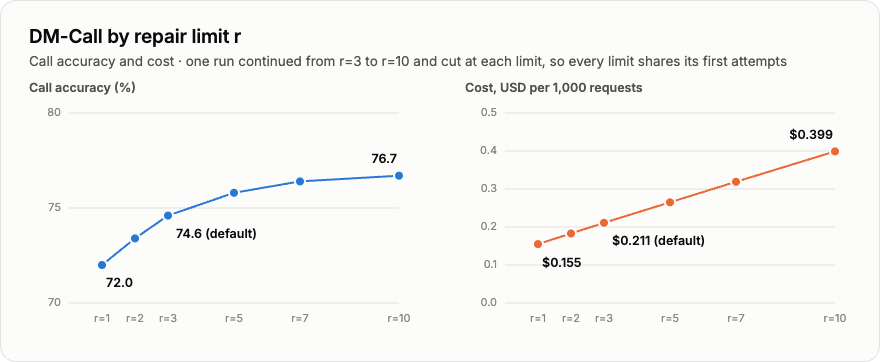
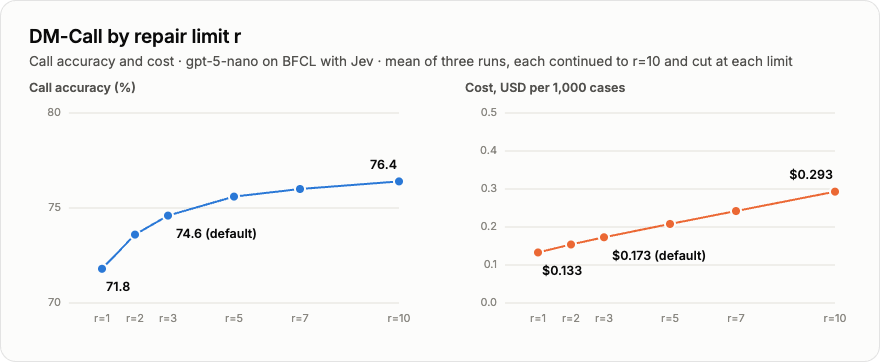
Update README results to the current paper and re-render the charts
- Results now show the paper's current Table 1 (four generators, Jev and PPLX, MAD-FC and
  PF-FC, BFCL and API-Bank, BFCL cost) with paired bootstrap intervals, fix and break counts,
  accepted-call correctness and timing recomputed from the same runs.
- The three charts and docs/assets/src/data.json use the current runs: BFCL categories of the
  Table 1 GPT runs, Table 3 (archived replay) and Figure 2. Self-refine's unknown retained
  cost shows as a dash. The tables under Results add Table 2, all four generators'
  categories and the repair-limit details.
- Statements the current results contradict are rewritten (Claude losing 1.3 points on
  BFCL, one verifier, first-run numbers). How it works, the options, the result fields,
  FAQ, Limits, the DGX section and the test badge describe the library's new defaults.

diff --git a/docs/assets/src/charts.py b/docs/assets/src/charts.py
@@ -3,7 +3,8 @@
 Usage: python docs/assets/src/charts.py docs/assets/src/data.json docs/assets
 Use --html-only to export browser previews without launching Chromium.
 The PNG renderer needs Playwright with Chromium and the Inter font. The numbers in data.json must equal
-the filled paper results (Tables 1-2 and Figure 2); colors are a validated categorical palette.
+the current paper's runs: BFCL categories of the Table 1 GPT runs, Table 3 (archived replay) and
+Figure 2; colors are a validated categorical palette.
 """
 import json
 import sys
@@ -116,7 +117,7 @@ def methods(t, rows):
                    f'V{y + bar / 2 - r} Q{end},{y + bar / 2} {end - r},{y + bar / 2} H{x0} Z" fill="{color}"/>')
         out.append(text(end + 8, y, f"{accuracy:.1f}%", t["ink"] if star else t["ink2"], 13, 650 if star else 450))
         out.append(text(cols["API s"], y, f"{seconds:.2f}", t["ink2"], 12.5, 450, "end"))
-        out.append(text(cols["USD / 1k"], y, f"${usd:.3f}", t["ink2"], 12.5, 450, "end"))
+        out.append(text(cols["USD / 1k"], y, "–" if usd is None else f"${usd:.3f}", t["ink2"], 12.5, 450, "end"))  # no retained cost
     out.append("</svg>")
     return "".join(out)
 
@@ -128,7 +129,7 @@ def limits(t, rows):
     height = top + plot_h + 40
     out = [f'<svg width="{width}" height="{height}" viewBox="0 0 {width} {height}">']
     specs = [("Call accuracy (%)", 1, (70, 80, (70, 75, 80)), t["blue"], lambda v: f"{v:.1f}"),
-             ("Cost, USD per 1,000 requests", 2, (0, 0.5, (0, 0.1, 0.2, 0.3, 0.4, 0.5)), t["orange"], lambda v: f"${v:.3f}")]
+             ("Cost, USD per 1,000 cases", 2, (0, 0.5, (0, 0.1, 0.2, 0.3, 0.4, 0.5)), t["orange"], lambda v: f"${v:.3f}")]
     for k, (label, index, (lo, hi, ticks), color, fmt) in enumerate(specs):
         ox = k * (panel + gap)
         px0, px1 = ox + 40, ox + panel - 18
@@ -168,13 +169,13 @@ def main(data_path, out_dir, html_only=False):
     jobs = []
     for mode, t in THEMES.items():
         jobs.append((f"chart-categories-{mode}.png", page(t, "Accuracy by BFCL category",
-                     "BFCL GPT runs · 3,035 scored / 3,051 prepared · mean of three runs · arrow: Direct (ring) to DM-Call with at most 3 repairs (dot) · bold: highest in the row",
+                     "BFCL · 3,035 cases · mean of three runs · arrow: Direct (ring) to DM-Call with Jev and at most 3 repairs (dot) · bold: highest in the row",
                      [("gpt-5-nano", t["blue"]), ("gpt-5.4-mini", t["orange"])], categories(t, data["categories"]))))
         jobs.append((f"chart-methods-{mode}.png", page(t, "Call accuracy by method",
-                     "gpt-5-nano · first run · same first proposal for every method · at most 3 repairs · time and cost per request at right",
+                     "gpt-5-nano on BFCL · archived runs replayed, mean of three · same first proposal for every method · at most 3 repairs · retained time and cost per case at right",
                      [], methods(t, data["methods"]))))
         jobs.append((f"chart-limits-{mode}.png", page(t, "DM-Call by repair limit r",
-                     "Call accuracy and cost · one run continued from r=3 to r=10 and cut at each limit, so every limit shares its first attempts",
+                     "Call accuracy and cost · gpt-5-nano on BFCL with Jev · mean of three runs, each continued to r=10 and cut at each limit",
                      [], limits(t, data["limits"]))))
     out_dir.mkdir(parents=True, exist_ok=True)
     if html_only:

diff --git a/README.md b/README.md
@@ -15,7 +15,7 @@
 <p align="center">
   <img alt="Python 3.11+" src="https://img.shields.io/badge/python-3.11%2B-3776AB?style=flat-square&logo=python&logoColor=white">
   <a href="LICENSE"><img alt="MIT license" src="https://img.shields.io/badge/license-MIT-eab308?style=flat-square"></a>
-  <img alt="768 offline tests" src="https://img.shields.io/badge/tests-768%20passing-16a34a?style=flat-square">
+  <img alt="1,082 offline tests" src="https://img.shields.io/badge/tests-1082%20passing-16a34a?style=flat-square">
   <img alt="Dependencies: httpx and jsonschema" src="https://img.shields.io/badge/deps-httpx%20%2B%20jsonschema-6b7280?style=flat-square">
   <a href="paper/main.pdf"><img alt="Paper (PDF)" src="https://img.shields.io/badge/paper-PDF-b31b1b?style=flat-square&logo=latex&logoColor=white"></a>
 </p>
@@ -50,7 +50,7 @@ agent.run("Is it jacket weather in Seoul tonight?")  # runs the call only if Jev
 
 ![Figure 1 of the paper. Direct / Schema Repair returns the candidate or fixes local schema errors. Generic Self-Review revises with the generator's own critique. DM-Call (Ours) has a decision model judge function selection and arguments, accepts a passing candidate, and sends rejected candidates back to the generator as cumulative feedback.](docs/assets/dm-call-figure1.png)
 
-The figure is Figure 1 of the paper. Direct generation returns the model's first call, schema repair fixes only what a local schema check reports, and generic self-review asks the model to critique itself. In DM-Call the LLM proposes a call $c_t$, one function with its arguments, or no call. A local schema check and Jev judge it: Jev sees the request, the available functions and the call, and answers *right function?* and, when there is a call, *right arguments?* as probabilities of yes. A check passes at 0.5 or more. A rejected call and its verdicts $d_t$ are appended to the feedback history $H_t$, and the model tries again. The history goes *before* the original request, oldest first, and is marked as not executed, so the model sees every earlier attempt and can change the function, the arguments, or decide not to call.
+The figure is Figure 1 of the paper. Direct generation returns the model's first call, schema repair fixes only what a local schema check reports, and generic self-review asks the model to critique itself. In DM-Call the LLM proposes a call $c_t$, one function with its arguments, or no call. A local schema check and Jev judge it: Jev sees the request, the available functions and the call, and answers *right function?* and, when there is a call, *right arguments?* as probabilities of yes. A check passes at 0.5 or more. A rejected call and its verdicts $d_t$ are appended to the feedback history $H_t$, and the model tries again. The history goes *before* the original request, oldest first, and is marked as not executed, so the model sees every earlier attempt and can change the function, the arguments, or decide not to call. Each probability in the history also carries a label from five equal bands, from *very likely incorrect* to *very likely correct* (Hybrid feedback, as in the paper; `feedback="numeric"` sends the probabilities alone). A readable first answer of no call is returned as is, without a check (`preserve_initial_no_call=False` checks it too); a no call proposed during a repair is still checked.
 
 Each history record contains a candidate and the verifier's actual judgments, without reference answers. The [many-shot in-context learning](https://arxiv.org/abs/2404.11018) literature motivates studying how prior examples affect later proposals. DM-Call uses rejected candidates as feedback; its cumulative-history ablation and repair-limit analysis appear in [Results](#results).
 
@@ -58,7 +58,7 @@ The loop stops at the first proposal that passes every check, or after `max_repa
 
 ## See it
 
-Two real traces from the paper's first run (`gpt-5-nano` on BFCL, `jev-1.13.0`, threshold 0.5). Red lines were rejected; green lines passed.
+Two real traces from an earlier `gpt-5-nano` BFCL run (`jev-1.13.0`, threshold 0.5). Red lines were rejected; green lines passed.
 
 **An unnecessary call, withdrawn.** The only tool is unrelated, and the model calls it anyway:
 
@@ -90,12 +90,12 @@ Two real traces from the paper's first run (`gpt-5-nano` on BFCL, `jev-1.13.0`, 
   <tr>
     <td width="33%" valign="top"><b>🎯 Checks what schemas cannot</b><br>Wrong function, invented values, a call that should not happen at all. Jev judges meaning; a local schema check covers format.</td>
     <td width="33%" valign="top"><b>🔁 Repairs instead of failing</b><br>Rejected calls go back to the model with every earlier attempt and verdict. Nothing runs until a call passes.</td>
-    <td width="33%" valign="top"><b>🔍 Decision-model feedback</b><br>The current verifier is Jev. It returns binary judgment probabilities without generating explanations or requiring reference answers.</td>
+    <td width="33%" valign="top"><b>🔍 Decision-model feedback</b><br>The default verifier is Jev; the open-weight PPLX Decider also works. Both return binary judgment probabilities without generating explanations or requiring reference answers.</td>
   </tr>
   <tr>
     <td valign="top"><b>🔌 Any model</b><br>OpenAI, Anthropic, Gemini, xAI Grok, Azure OpenAI, OpenRouter, or any OpenAI-compatible server. Plain HTTP, no vendor SDKs.</td>
     <td valign="top"><b>🧰 Plain Python tools</b><br>Pass functions. Schemas come from type hints and docstrings; JSON Schema works too.</td>
-    <td valign="top"><b>📄 Open study</b><br>The library runs the same loop as the paper. Code, the pinned BFCL revision and the checks behind every table are in this repo.</td>
+    <td valign="top"><b>📄 Open study</b><br><code>dmcall.DMCall</code> runs the paper's loop with its settings: Hybrid feedback and the first no-call kept. The library, the pinned BFCL revision and the scoring checks are in this repo.</td>
   </tr>
 </table>
 
@@ -233,6 +233,8 @@ dmcall.DMCall(
     method="dmcall",            # or a baseline: "direct", "schema", "self-refine",
                                # "dmcall-f", "dmcall-a", "dmcall-latest"
     execute_unverified=False,  # True also permits the final unverified proposal to run
+    feedback="hybrid",         # probabilities with labels in repair feedback ("numeric": probabilities only)
+    preserve_initial_no_call=True,  # return a readable first no-call without a check
 )
 ```
 
@@ -246,7 +248,8 @@ dmcall.DMCall(
 | DM-Call-L: latest rejected candidate only | `dmcall-latest` | `jev_joint_latest` |
 | DM-Call: both judgments, cumulative history | `dmcall` | `jev_joint` |
 
-- The defaults are the paper's final settings: at most three repairs, threshold 0.5, and the first proposal when nothing passes. `call()` and `run()` also take `max_repairs=` and `on_exhaustion=` per request.
+- The defaults are the paper's settings: at most three repairs, threshold 0.5, the first proposal when nothing passes, Hybrid feedback, and a readable first no-call returned without a check. `call()` and `run()` also take `max_repairs=` and `on_exhaustion=` per request.
+- The paper's other baselines, MAD-FC and PF-FC, run in its experiment runner and are not methods of this library.
 - `dmcall.Jev(api_key, threshold=0.5, function_threshold=None, arguments_threshold=None, model="jev-1.13.0")` configures the verifier; pass it as `jev=`.
 - `acall`, `arun` and `averify` run the same steps in a worker thread for async code.
 - `dmcall.SYSTEM_PROMPT` is the generator prompt used in the paper; replace it with `system_prompt=` on a provider.
@@ -258,7 +261,8 @@ dmcall.DMCall(
 |---|---|
 | `calls` | final proposal: `[{"name", "arguments"}]`, `[]` for no call, `None` if unreadable; the first proposal when nothing passed (`on_exhaustion="first"`) |
 | `call` | the first call, or `None` |
-| `accepted` | passed every check (`None` for methods without a verifier) |
+| `accepted` | passed every check (`None` for methods without a verifier, and for a first no-call returned without a check) |
+| `initial_no_call_preserved` | the first proposal was a readable no-call, returned without a check |
 | `exhausted` | hit the repair limit without passing |
 | `repairs` | repairs used |
 | `final_attempt` | which proposal in `trace` is final (0: the first) |
@@ -274,115 +278,150 @@ dmcall.DMCall(
 
 For new experiments, `dmcall.PerplexityDecider` connects to the native
 [Perplexity Decider v1.1 27B](https://huggingface.co/perplexity-ai/pplx-decider-v1.1-27b)
-checkpoint at an immutable revision. Pass it explicitly as `jev=` to the existing
-`dmcall.DM-Call` API. Jev remains the default verifier for the historical experiments.
+checkpoint at an immutable revision. Pass it explicitly as `jev=` to
+`dmcall.DMCall`. Jev remains the default verifier.
 The [DGX experiment guide](docs/dgx-decider-experiments.md) covers the isolated
 runtime, input and model fingerprints, bounded smoke tests, and the separate
-experiment runner. The following paper results do not include this new model.
+experiment runner. The paper's DM-Call (PPLX) results use this checkpoint, run
+locally in BF16 with its calibration temperature (1.009).
 
 ## Results
 
 > [!NOTE]
-> Three generators from two providers (`gpt-5-nano`, `gpt-5.4-mini`, and `claude-sonnet-5-5`) and one verifier (`jev-1.13.0`) were evaluated on BFCL and an exploratory API-Bank first-call adaptation. Each generator has three paired Direct/DM-Call runs with shared initial candidates, at most three repairs, threshold 0.5, and the first proposal kept if none passes. BFCL accuracy uses 3,035 cases from the 3,051-case subset; API-Bank uses 156 cases with a fixed 53-tool catalog and adapted exact match, without executing functions. BFCL settings were selected after inspecting these examples, and API-Bank's input instruction was refined after exploratory outcomes. These results do not establish a uniform gain or execution success. Intervals, timing, cost, and limitations are in the [current paper](paper/main.pdf).
+> These are the paper's current results. Four generators (`gpt-5-nano`, `gpt-5.4-mini` and `claude-sonnet-5-5` through their APIs, and the open-weight `gemma-4-31b-it` served locally with vLLM) and two decision models (the hosted `jev-1.13.0` and the open-weight PPLX Decider v1.1, run locally) were evaluated on 3,035 BFCL single-turn cases and on an exploratory 156-case API-Bank first-call adaptation. Every method has three runs. DM-Call uses at most three repairs, threshold 0.5, Hybrid feedback and the first proposal when none passes, and it returns a readable first no-call unchanged. These settings were chosen on the same benchmarks without a held-out split, and no function is executed. MAD-FC (three agents debate one round and take a majority vote) and PF-FC (`gpt-5.4-mini` reviews each Direct call and refines it up to three times) are the paper's external baselines; they run in its experiment runner, not in this library.
 
-Current Table 1, mean accuracy (%) over three runs:
+BFCL accuracy (%), mean of three runs:
 
-| Benchmark | Generator | Direct | DM-Call |
-|---|---|---:|---:|
-| BFCL | GPT-5-nano | 64.1 | 74.8 |
-| BFCL | GPT-5.4-mini | 81.1 | 82.1 |
-| BFCL | Claude Sonnet 5.5 | 88.3 | 87.0 |
-| API-Bank (adapted, exploratory) | GPT-5-nano | 60.0 | 66.5 |
-| API-Bank (adapted, exploratory) | GPT-5.4-mini | 78.2 | 79.5 |
-| API-Bank (adapted, exploratory) | Claude Sonnet 5.5 | 86.3 | 87.2 |
+| Generator | Direct | MAD-FC | PF-FC | DM-Call (Jev) | DM-Call (PPLX) |
+|---|---:|---:|---:|---:|---:|
+| `gpt-5-nano` | 64.12 | 60.20 | 74.54 | 74.63 | 74.24 |
+| `gpt-5.4-mini` | 81.59 | 79.09 | 81.79 | 82.54 | 82.20 |
+| `claude-sonnet-5-5` | 88.25 | 82.38 | 86.45 | 88.56 | 88.46 |
+| `gemma-4-31b-it` | 86.67 | 39.29 | 84.85 | 86.91 | 86.88 |
 
-Claude loses 1.3 points on BFCL; its 0.9-point API-Bank gain has a paired interval that includes zero. Other verifier families and independent confirmation of API-Bank remain future work.
+API-Bank (adapted, exploratory) accuracy (%), mean of three runs:
 
-### Original BFCL GPT breakdown and ablations
+| Generator | Direct | MAD-FC | PF-FC | DM-Call (Jev) | DM-Call (PPLX) |
+|---|---:|---:|---:|---:|---:|
+| `gpt-5-nano` | 61.32 | 29.27 | 70.09 | 64.32 | 64.53 |
+| `gpt-5.4-mini` | 80.13 | 80.98 | 76.71 | 80.13 | 80.13 |
+| `claude-sonnet-5-5` | 86.97 | 73.93 | 83.12 | 87.39 | 87.39 |
+| `gemma-4-31b-it` | 81.41 | 0.85 | 77.56 | 81.62 | 81.41 |
 
-The charts and detailed analyses below preserve the original BFCL GPT experiments. They do not include the added Claude or API-Bank runs. Category values are three-run means; method and repair-limit plots use the first GPT-5-nano run.
+USD per 1,000 BFCL cases at quoted API prices. Models run locally (`gemma-4-31b-it` and the PPLX Decider) are not priced:
+
+| Generator | Direct | MAD-FC | PF-FC | DM-Call (Jev) |
+|---|---:|---:|---:|---:|
+| `gpt-5-nano` | 0.055 | 0.502 | 1.945 | 0.173 |
+| `gpt-5.4-mini` | 0.707 | 5.438 | 2.224 | 0.917 |
+| `claude-sonnet-5-5` | 4.151 | 31.307 | 6.157 | 4.609 |
+
+- On BFCL, DM-Call with Jev scored above Direct with all four generators: by 10.5 points with `gpt-5-nano` (paired bootstrap 95% CI 9.5 to 11.5), 0.9 with `gpt-5.4-mini` (0.6 to 1.3), 0.3 with `claude-sonnet-5-5` (0.1 to 0.5) and 0.2 with `gemma-4-31b-it` (0.0 to 0.5). With the PPLX Decider it stayed within 0.4 points of Jev.
+- DM-Call rarely turned a correct Direct answer into a wrong one. Per run it fixed 319 to 322 `gpt-5-nano` cases and broke 0 to 2; with the other generators it fixed 11 to 37 and broke 3 to 6. A readable first no-call is returned without a check, which covered 18% of `gpt-5-nano`'s BFCL cases and about a third of the other generators'.
+- API-Bank gains were smaller: 3.0 points with `gpt-5-nano` (1.5 to 4.9), none with `gpt-5.4-mini`, and 0.4 and 0.2 points with `claude-sonnet-5-5` and `gemma-4-31b-it`, whose intervals include zero. PF-FC scored highest on API-Bank with `gpt-5-nano` and MAD-FC with `gpt-5.4-mini`.
+- MAD-FC scored below Direct on BFCL with every generator, and PF-FC scored below Direct with `claude-sonnet-5-5` and `gemma-4-31b-it`. Part of their loss comes from outputs scored as wrong: `claude-sonnet-5-5` refused 5% (BFCL) and 15% (API-Bank) of MAD-FC's peer-wave requests, `gemma-4-31b-it` wrote 92% of its MAD-FC peer-wave calls as text instead of native calls, and PF-FC's reviewer returned an unreadable review for 2% to 5% of cases.
+- With Jev, DM-Call cost 3.2 times Direct with `gpt-5-nano`, 1.3 times with `gpt-5.4-mini` and 1.1 times with `claude-sonnet-5-5`. Each extra correct BFCL call over Direct cost $0.0011 with `gpt-5-nano` and $0.022 with `gpt-5.4-mini`. PF-FC cost 1.3 to 11 times as much as DM-Call, and MAD-FC 3 to 7 times.
+- A larger model alone still beat the small model with DM-Call: Direct with `gpt-5.4-mini` scored 7.0 points above DM-Call with `gpt-5-nano` on BFCL (95% CI 5.6 to 8.2), at 4.1 times the cost.
+- Accepted is not the same as correct: with `gpt-5-nano`, the final call passed every check in 70% of BFCL cases, and 83% of those were correct (81% to 85% with the other generators).
+- With `gpt-5-nano`, DM-Call's requests took 4.03 s per BFCL case in total, against 2.56 s for Direct. The three runs agree: DM-Call's BFCL totals vary by a standard deviation of 0.05 to 0.51 points.
+
+### BFCL categories
 
 <picture>
   <source media="(prefers-color-scheme: dark)" srcset="docs/assets/chart-categories-dark.png">
-  <img alt="Accuracy by BFCL category, mean of three runs, Direct then DM-Call, for gpt-5-nano and gpt-5.4-mini: Simple Python 90.8 to 91.3 and 90.5 to 91.8; Multiple 91.0 to 91.5 and 93.3 to 95.0; Irrelevance 27.2 to 78.2 and 87.1 to 87.9; Live simple 74.3 to 77.8 and 77.1 to 79.8; Live multiple 67.6 to 71.4 and 75.2 to 77.4; Live irrelevance 48.8 to 65.7 and 80.7 to 79.4; total 64.1 to 74.8 and 81.1 to 82.1." src="docs/assets/chart-categories-light.png" width="100%">
+  <img alt="Accuracy by BFCL category, mean of three runs, Direct then DM-Call with Jev, for gpt-5-nano and gpt-5.4-mini: Simple Python 91.6 to 92.0 and 90.9 to 91.3; Multiple 91.0 to 91.8 and 93.0 to 93.7; Irrelevance 23.2 to 79.0 and 88.6 to 90.7; Live simple 75.8 to 76.6 and 77.9 to 78.3; Live multiple 69.0 to 70.0 and 76.0 to 76.4; Live irrelevance 47.5 to 66.6 and 80.6 to 82.3; total 64.1 to 74.6 and 81.6 to 82.5." src="docs/assets/chart-categories-light.png" width="100%">
 </picture>
 
-- With `gpt-5-nano`, DM-Call raised call accuracy from 64.1% to 74.8% on average (paired bootstrap 95% CI for the difference 9.7–11.6 points; +10.8, +10.7 and +10.4 in the three runs), mostly on requests where no tool applies (Irrelevance: 27.2% → 78.2%). Where a call is needed, the gains are small (Simple Python 90.8% → 91.3%, Multiple 91.0% → 91.5%): a yes/no verdict says *that* a call is wrong, not *which* call is right.
-- With `gpt-5.4-mini`, DM-Call raised accuracy in every run, from 81.1% to 82.1% on average (95% CI for the difference 0.5–1.5 points). It fixed 55–66 calls per run and broke 27–39, mostly correct no-calls that became calls Jev accepted after rejecting the no-call.
-- Which proposal to return when none passes mattered for the larger model. Returning the last repair instead of the first would have put `gpt-5.4-mini` at 80.7%, below Direct: those unverified changes fixed 10–14 calls per run and broke 53–55, mostly correct no-calls. For `gpt-5-nano`, the last repair would have scored 0.4 points higher (75.1%; 95% CI 0.03–0.68). Both rules make the same requests.
-- A larger model alone beat the small model with DM-Call: Direct with `gpt-5.4-mini` reached 81.1%, 6.4 points above DM-Call with `gpt-5-nano` (95% CI 5.1–7.7), at 3.3 times the cost ($0.70 instead of $0.21 per 1,000 requests) and in under half the time.
-- The three runs agree: each total moved by at most 0.6 points between runs (standard deviation 0.1–0.3), although about 30% of `gpt-5-nano`'s first calls (13% of `gpt-5.4-mini`'s) changed from run to run.
-- In the first run with `gpt-5-nano`, every repair method scored above Direct. Generic self-review spends four proposals on every request and trailed every Jev-based method, which averaged 1.4 to 1.6.
-- In the same run, keeping the whole history scored 1.1 points above showing only the latest rejection (95% CI 0.4–1.7).
-- Accepted is not the same as correct: with `gpt-5-nano`, calls that passed every check (84–85% of examples in each run) were 84–85% correct.
-- With `gpt-5-nano`, DM-Call cost about four times Direct ($0.21 instead of $0.056 per 1,000 requests) and took 1.3 more API seconds.
+Most of `gpt-5-nano`'s gain came from requests where no tool applies (Irrelevance 23.2% to 79.0%, Live irrelevance 47.5% to 66.6%); the categories that need a call moved by 0.4 to 1.0 points. `claude-sonnet-5-5` and `gemma-4-31b-it` changed by at most 1.3 points in any category (table below).
+
+### Ablations
 
 <picture>
   <source media="(prefers-color-scheme: dark)" srcset="docs/assets/chart-methods-dark.png">
-  <img alt="Call accuracy by method with gpt-5-nano, first run, at most three repairs: DM-Call 74.6, DM-Call-L 73.5, DM-Call-F 73.2, DM-Call-A 72.5, Self-refine 70.0, Schema repair 65.8, Direct 63.8, with API seconds and USD per 1,000 requests." src="docs/assets/chart-methods-light.png" width="100%">
+  <img alt="Call accuracy by method with gpt-5-nano on BFCL, archived runs replayed, mean of three runs, at most three repairs: DM-Call 74.3, DM-Call-A 73.6, DM-Call-F 73.1, DM-Call-L 73.0, Self-refine 69.9, Schema repair 66.2, Direct 64.1, with retained API seconds and USD per 1,000 cases." src="docs/assets/chart-methods-light.png" width="100%">
 </picture>
+
+The paper's Table 3 replays archived `gpt-5-nano` BFCL trajectories (three runs, Jev, at most three repairs) under the current rules; every method starts from the same first answers. Time and cost sum the retained requests, so they are references rather than fresh measurements, and Self-refine's retained cost is unknown.
+
+- Schema repair and Self-refine gained 2.1 and 5.8 points over Direct; the decision-model variants gained 8.9 to 10.2.
+- Both checks together gave the highest call accuracy, and argument-only feedback (DM-Call-A) the highest argument accuracy given the right function.
+- Keeping the whole history scored 1.27 points above showing only the latest rejection (95% CI 0.87 to 1.69).
+- Self-refine spends four proposals on every request: 5.71 retained API seconds per case, against 2.11 to 2.50 for the decision-model variants.
+- In the paper's Table 2, Hybrid feedback was clearly better than probabilities alone only for `gpt-5-nano` on BFCL (+0.6 points) and never clearly worse, so it is the default.
 
 <a id="more-repairs"></a>
+### Repair limit
+
 <picture>
   <source media="(prefers-color-scheme: dark)" srcset="docs/assets/chart-limits-dark.png">
-  <img alt="DM-Call by repair limit: call accuracy 72.0% at r=1, 73.4% at r=2, 74.6% at r=3 (default), 75.8% at r=5, 76.4% at r=7 and 76.7% at r=10; cost per 1,000 requests $0.155, $0.183, $0.211, $0.265, $0.319 and $0.399." src="docs/assets/chart-limits-light.png" width="100%">
+  <img alt="DM-Call by repair limit, gpt-5-nano on BFCL with Jev, mean of three runs: call accuracy 71.8% at r=1, 73.6% at r=2, 74.6% at r=3 (default), 75.6% at r=5, 76.0% at r=7 and 76.4% at r=10; cost per 1,000 cases $0.133, $0.154, $0.173, $0.208, $0.242 and $0.293." src="docs/assets/chart-limits-light.png" width="100%">
 </picture>
 
-Continuing the first `gpt-5-nano` run raised call accuracy from 74.6% at three repairs (the default) to 76.7% at ten, at 1.9 times the cost. Every newly correct answer came from a later proposal that passed, most of them (59 of 70) on requests where no tool applies. Even at ten repairs, DM-Call stayed below Direct with `gpt-5.4-mini` (76.7% against 81.1% on average). Three repairs was chosen on the first run at threshold 0.8, where each further point cost about four times as much.
+Continuing the three `gpt-5-nano` BFCL runs to ten repairs raised call accuracy from 74.63% at three repairs (the default) to 76.38%, while cost rose from $0.173 to $0.293 per 1,000 cases and the p95 of summed request time from 9.7 s to 24.3 s. Five repairs would add 0.9 points for 16% more requests and a 42% higher p95. The default sits at the knee of accuracy against requests; one of the three runs alone would favor five repairs.
 
 <details>
-<summary><b>Original BFCL GPT analyses as tables</b></summary>
+<summary><b>Results as tables</b></summary>
 
-Original GPT category breakdown, mean of three runs per generator (total: mean ± standard deviation across runs). The current paper's Table 1 uses the six-row summary above:
+BFCL categories, Direct → DM-Call with Jev, mean of three runs (%):
 
-| Category | Examples | `gpt-5-nano` Direct | `gpt-5-nano` DM-Call | `gpt-5.4-mini` Direct | `gpt-5.4-mini` DM-Call |
+| Category | Cases | `gpt-5-nano` | `gpt-5.4-mini` | `claude-sonnet-5-5` | `gemma-4-31b-it` |
 |---|---:|---:|---:|---:|---:|
-| Simple Python | 400 | 90.8 | 91.3 | 90.5 | **91.8** |
-| Multiple | 200 | 91.0 | 91.5 | 93.3 | **95.0** |
-| Irrelevance | 240 | 27.2 | 78.2 | 87.1 | **87.9** |
-| Live simple | 258 | 74.3 | 77.8 | 77.1 | **79.8** |
-| Live multiple | 1,053 | 67.6 | 71.4 | 75.2 | **77.4** |
-| Live irrelevance | 884 | 48.8 | 65.7 | **80.7** | 79.4 |
-| **Total** (excl. 16 live relevance) | 3,035 | 64.1 ± 0.3 | 74.8 ± 0.3 | 81.1 ± 0.2 | **82.1** ± 0.1 |
-| USD / 1k requests | | 0.056 | 0.210 | 0.703 | 1.137 |
+| Simple Python | 400 | 91.6 → 92.0 | 90.9 → 91.3 | 95.8 → 95.6 | 95.1 → 94.8 |
+| Multiple | 200 | 91.0 → 91.8 | 93.0 → 93.7 | 97.7 → 97.2 | 94.8 → 94.8 |
+| Irrelevance | 240 | 23.2 → 79.0 | 88.6 → 90.7 | 90.4 → 91.7 | 91.5 → 91.5 |
+| Live simple | 258 | 75.8 → 76.6 | 77.9 → 78.3 | 87.1 → 87.5 | 88.4 → 88.2 |
+| Live multiple | 1,053 | 69.0 → 70.0 | 76.0 → 76.4 | 84.9 → 85.1 | 81.3 → 81.6 |
+| Live irrelevance | 884 | 47.5 → 66.6 | 80.6 → 82.3 | 86.4 → 87.1 | 85.6 → 86.2 |
+| Total (excl. 16 live relevance) | 3,035 | 64.1 → 74.6 | 81.6 → 82.5 | 88.2 → 88.6 | 86.7 → 86.9 |
 
-Historical first-versus-last fallback analysis on BFCL GPT runs, mean of three runs with the same requests. DM-Call returns the first proposal when none passes; the last-proposal alternative is shown below. This is no longer a numbered table in the current paper:
+Ablations, `gpt-5-nano` on BFCL, archived runs replayed, mean ± s.d. of three runs (the paper's Table 3; time and cost are retained references):
 
-| Generator | Direct | DM-Call, last proposal | DM-Call, first proposal (default) | First − last (points, 95% CI) |
-|---|---:|---:|---:|---:|
-| `gpt-5-nano` | 64.1 | **75.1** | 74.8 | −0.35 (−0.68 to −0.03) |
-| `gpt-5.4-mini` | 81.1 | 80.7 | **82.1** | +1.37 (0.93 to 1.82) |
-
-First run (the paper's Table 2 and Figure 2):
-
-| Method (`gpt-5-nano`) | Call acc. | Function acc. | Argument acc. | API sec. | USD / 1k requests |
+| Method | Call (%) | Function (%) | Arguments, given the right function (%) | API s | USD / 1k cases |
 |---|---:|---:|---:|---:|---:|
-| Direct (no checks) | 63.8 | 74.8 | 81.2 | 1.30 | 0.056 |
-| Schema repair | 65.8 | 76.4 | 81.8 | 1.36 | 0.059 |
-| Self-refine (4 proposals, every request) | 70.0 | 80.3 | 82.2 | 5.47 | 0.265 |
-| DM-Call-F (function check only) | 73.2 | 84.5 | 81.4 | 2.24 | 0.172 |
-| DM-Call-A (argument check only) | 72.5 | 82.6 | **82.7** | 2.21 | 0.169 |
-| DM-Call-L (latest feedback only) | 73.5 | 84.3 | 82.2 | 2.60 | 0.203 |
-| **DM-Call** | **74.6** | **85.3** | 82.1 | 2.61 | 0.211 |
+| Direct | 64.11 ± 0.31 | 75.11 ± 0.29 | 81.27 ± 0.14 | 1.48 | 0.056 |
+| Schema repair | 66.25 ± 0.42 | 76.96 ± 0.46 | 81.76 ± 0.20 | 1.55 | 0.059 |
+| Self-refine | 69.94 ± 0.30 | 80.21 ± 0.42 | 82.07 ± 0.15 | 5.71 | unknown |
+| DM-Call-F (function check only) | 73.12 ± 0.46 | 83.84 ± 0.52 | 81.78 ± 0.07 | 2.11 | 0.135 |
+| DM-Call-A (argument check only) | 73.61 ± 0.33 | 83.73 ± 0.52 | 82.64 ± 0.38 | 2.33 | 0.155 |
+| DM-Call-L (latest feedback only) | 73.05 ± 0.24 | 83.61 ± 0.22 | 82.05 ± 0.16 | 2.50 | 0.167 |
+| DM-Call | 74.32 ± 0.22 | 84.80 ± 0.26 | 82.18 ± 0.13 | 2.45 | 0.171 |
+
+Feedback representation at three repairs, mean ± s.d. of three runs (the paper's Table 2; `gemma-4-31b-it` reuses Table 1's first answers, the others archived ones):
+
+| Benchmark | Generator | Numeric (%) | Text (%) | Hybrid (%) |
+|---|---|---:|---:|---:|
+| BFCL | `gpt-5-nano` | 73.72 ± 0.17 | 73.86 ± 0.18 | 74.32 ± 0.22 |
+| BFCL | `gpt-5.4-mini` | 82.14 ± 0.10 | 82.20 ± 0.08 | 82.11 ± 0.11 |
+| BFCL | `claude-sonnet-5-5` | 88.58 ± 0.30 | 88.61 ± 0.31 | 88.58 ± 0.28 |
+| BFCL | `gemma-4-31b-it` | 86.93 ± 0.10 | 86.91 ± 0.11 | 86.91 ± 0.12 |
+| API-Bank | `gpt-5-nano` | 61.97 ± 2.67 | 61.11 ± 2.06 | 61.54 ± 2.56 |
+| API-Bank | `gpt-5.4-mini` | 78.63 ± 0.37 | 78.63 ± 0.37 | 78.63 ± 0.37 |
+| API-Bank | `claude-sonnet-5-5` | 87.18 ± 0.00 | 87.18 ± 0.00 | 87.18 ± 0.00 |
+| API-Bank | `gemma-4-31b-it` | 81.62 ± 0.37 | 81.62 ± 0.37 | 81.62 ± 0.37 |
+
+Repair limit, `gpt-5-nano` on BFCL with Jev, mean of three runs (the paper's Figure 2; time sums request durations per case):
 
 | `max_repairs` | 1 | 2 | 3 (default) | 5 | 7 | 10 |
 |---|---:|---:|---:|---:|---:|---:|
-| Call accuracy | 72.0 | 73.4 | 74.6 | 75.8 | 76.4 | 76.7 |
-| Function accuracy | 82.8 | 84.2 | 85.3 | 86.6 | 87.1 | 87.4 |
-| Mean repairs used | 0.29 | 0.47 | 0.64 | 0.94 | 1.22 | 1.62 |
-| Reached the limit without passing | 18.6% | 16.8% | 15.6% | 14.2% | 13.3% | 12.8% |
-| API seconds | 1.99 | 2.32 | 2.61 | 3.11 | 3.59 | 4.29 |
-| USD / 1k requests | 0.155 | 0.183 | 0.211 | 0.265 | 0.319 | 0.399 |
+| Call accuracy (%) | 71.84 | 73.61 | 74.63 | 75.57 | 75.99 | 76.38 |
+| Function accuracy (%) | 82.34 | 83.93 | 84.93 | 85.84 | 86.24 | 86.61 |
+| Mean repairs used | 0.24 | 0.39 | 0.51 | 0.74 | 0.95 | 1.25 |
+| Reached the limit without passing | 15.0% | 12.9% | 11.7% | 10.6% | 10.1% | 9.5% |
+| Request time, mean (s) | 3.43 | 3.75 | 4.03 | 4.53 | 5.00 | 5.68 |
+| Request time, p95 (s) | 6.06 | 7.77 | 9.69 | 13.76 | 17.88 | 24.32 |
+| USD / 1k cases | 0.133 | 0.154 | 0.173 | 0.208 | 0.242 | 0.293 |
+
+Analyses of the earlier BFCL GPT runs (threshold selection, first-versus-last fallback) are in [docs/benchmarks.md](docs/benchmarks.md), [docs/threshold.md](docs/threshold.md) and [docs/repair-budget.md](docs/repair-budget.md).
 
 </details>
 
 ## FAQ
 
 **Is Jev just another LLM-as-a-judge?**
-Jev is TypeSafe's decision model. It does not write explanations: it answers each yes/no question with a probability, in 0.19 s on average in the paper's first run. DM-Call asks two fixed questions (right function, right arguments) and also runs a local schema check.
+Jev is TypeSafe's decision model. It does not write explanations: it answers each yes/no question with a probability, in 0.16 to 0.21 s per check on average in the paper's BFCL runs. DM-Call asks two fixed questions (right function, right arguments) and also runs a local schema check.
 
 **What does it cost?**
-Each Jev check reads about 1,400 tokens, roughly $0.06 per 1,000 checks at $0.042 per million input tokens. With `gpt-5-nano`, DM-Call cost $0.21 per 1,000 requests on average, against $0.056 for a bare call; a bare call to `gpt-5.4-mini` cost $0.70 and was more accurate.
+Each Jev check reads about 1,400 tokens with `gpt-5-nano` on BFCL, roughly $0.06 per 1,000 checks at $0.042 per million input tokens. With `gpt-5-nano`, DM-Call cost $0.173 per 1,000 BFCL cases on average, against $0.055 for a bare call; a bare call to `gpt-5.4-mini` cost $0.707 and was more accurate.
 
 **Does anything run while DM-Call repairs a call?**
 No. Proposals are marked as not executed, and `run()` executes only the final call after it passes (or, with `execute_unverified=True`, the final proposal even if none passed: the first one by default).
@@ -394,25 +433,27 @@ Yes. Call `dmcall.verify(...)` on the tool calls your framework produces, or let
 Not yet. DM-Call decides one step at a time: a single call or no call, the setting it was evaluated on.
 
 **Which models have been benchmarked?**
-`gpt-5-nano`, `gpt-5.4-mini`, and Claude Sonnet 5.5, each with Direct and DM-Call over three runs on BFCL and the exploratory API-Bank adaptation. The verifier is Jev in every comparison. Effects vary by generator and benchmark; see [Results](#results). Other provider adapters are covered by offline tests, not these benchmark results.
+`gpt-5-nano`, `gpt-5.4-mini` and `claude-sonnet-5-5` through their APIs, and `gemma-4-31b-it` served locally with vLLM, each over three runs on BFCL and the exploratory API-Bank adaptation, with Jev and the PPLX Decider as decision models and MAD-FC and PF-FC as baselines. Effects vary by generator and benchmark; see [Results](#results). Other provider adapters are covered by offline tests, not these benchmark results.
 
 **When does DM-Call help?**
-The largest BFCL gain came from GPT-5-nano withdrawing unnecessary calls. GPT-5.4-mini gained one point, while Claude lost 1.3 points because accepted revisions introduced more errors than they fixed. API-Bank's adapted evaluation showed smaller gains for all three generators, with Claude's interval including zero. Measure on your own traffic; `verify()` returns verdicts without revising the call.
+The largest BFCL gain, 10.5 points, came from `gpt-5-nano` withdrawing unnecessary calls. The stronger generators gained 0.2 to 0.9 points on BFCL, and API-Bank gains were 0 to 3.0 points, several with intervals that include zero. Measure on your own traffic; `verify()` returns verdicts without revising the call.
 
 ## Limits
 
 - **One decision per step.** DM-Call decides a single call or no call. `call()` and `run()` take text messages, so give earlier tool results back to the model as text; `verify()` also accepts tool-call and tool-result messages.
-- **A verifier is a model too.** Jev can accept a wrong call or reject a right one; accepted calls were about 85% correct in the original GPT-5-nano BFCL runs. Claude's BFCL accuracy decreased after accepted revisions, even with the first-proposal fallback.
-- **Cost and latency.** Each proposal costs one generator call and one Jev call; with at most three repairs, that is up to four of each.
-- **Evidence so far.** Three generators, two providers, one verifier, and mostly English requests; Direct/DM-Call have three runs per generator and benchmark, while the other methods have one GPT-5-nano BFCL run. BFCL settings were chosen after inspecting evaluated examples. API-Bank has 156 exploratory test cases, no validated no-call negatives, and an input instruction revised after prior outcomes. This study does not evaluate end-to-end execution success.
+- **A verifier is a model too.** A decision model can accept a wrong call or reject a right one: with `gpt-5-nano` on BFCL, 83% of the final calls that passed every check were correct (81% to 85% with the other generators).
+- **Cost and latency.** Each proposal costs one generator call and one decision-model call; with at most three repairs, that is up to four of each.
+- **Evidence so far.** Four generators (three API models from two providers and one open-weight model), two decision models, and mostly English requests. Every Table 1 method has three runs per generator and benchmark, while the ablations replay archived `gpt-5-nano` BFCL runs. Thresholds, the fallback rule, the label bands and the repair limit were chosen on these benchmarks without a held-out split. BFCL has ten known annotation errors. API-Bank has 156 exploratory test cases, covers only first calls, has no validated no-call negatives, and its input instruction was revised after prior outcomes. This study does not evaluate end-to-end execution success.
 
 ## Reproduce the paper
 
 **[paper/main.pdf](paper/main.pdf)** is an anonymous review copy of the current manuscript (2026-11-04); its LaTeX source is kept outside this repository. The LaTeX files under `paper/` are the earlier manuscript, which uses the DMGFC labels: its entry point is [paper/main.tex](paper/main.tex), the Abstract is inline in `main.tex`; active sections are loaded from `paper/sec/`. `paper/sec/abstract.tex` is a required empty input, and `paper/sigconf*.tex` files are ACM template examples.
 
+The current tables come from experiment runs whose records and runners are kept outside this repository. The library code those runs pinned is published here byte for byte: `dmgfc.core`, `dmgfc.initial_no_call` (the first no-call kept) and `dmgfc.feedback`, with the runs' Hybrid scheme as `dmcall.feedback.HybridFeedbackScheme`. The commands below belong to the earlier pipeline and rebuild the earlier manuscript's results.
+
 On 2026-10-21, the supplied polished Abstract and Introduction were restored exactly, together with the original Task Definition heading, at the author’s request. Added methods and BFCL/exploratory API-Bank results remain. That anonymous ACM manuscript was a **four-page restored draft**, including references; original red passages, `xxx`, and the unrun multi-verifier claim were preserved in its Introduction, and its experiments used three generators and one Jev verifier. The prior four-page revision is saved in [paper/versions/2026-10-21-before-polished-text-restore/](paper/versions/2026-10-21-before-polished-text-restore/). On 2026-10-24, the displayed acronym became **DMGFC**; following the user's PR comment, the paper title retains **with Cumulative Verification Feedback**. The public API now uses `dmgfc.DMGFC`; older `dmfc.DMFC` and `jbfc.JBFC` imports remain compatible. Other restored wording is preserved. See [restoration and upload checklist](docs/overleaf-polished-text-restore-2026-10-21.md) and [paper build notes](paper/README.md). Previous sources and PDFs are saved under [paper/versions/](paper/versions/).
 
-The experiment code lives in [`src/jev_fc`](src/jev_fc) and the manuscript in [`paper/main.tex`](paper/main.tex). DM-Call's loop in the library *is* `jev_fc.pipeline.run_example`, and offline tests check that the library sends the same prompts as the experiments. The runs started at threshold 0.8 with the last proposal returned; the paper's numbers come from rerunning the Jev methods at threshold 0.5 from the same first proposals and keeping the first proposal when none passes (`make final`).
+In the earlier pipeline, the experiment code lives in [`src/jev_fc`](src/jev_fc) and the manuscript in [`paper/main.tex`](paper/main.tex). For calls that are not a first no-call, DM-Call's loop in the library *is* `jev_fc.pipeline.run_example`, and offline tests check that the library sends the same prompts as the experiments. The runs started at threshold 0.8 with the last proposal returned; the paper's numbers come from rerunning the Jev methods at threshold 0.5 from the same first proposals and keeping the first proposal when none passes (`make final`).
 
 ```bash
 make setup         # uv sync and a .env from .env.example
@@ -429,7 +470,7 @@ make threshold THRESHOLD=0.5   # DM-Call again at threshold 0.5 from every run's
 make t05           # DM-Call-F, DM-Call-A and DM-Call-L at 0.5, and DM-Call at 0.5 continued to r=10 (Table 2, Figure 2)
 make final         # derive recorded results; preserve combined Table 1, update Table 2 and Figure 2
 make paper         # rebuild paper/main.pdf
-python scripts/analyze_results.py results/final/gpt-5-nano_run1   # the first run's numbers quoted in Results
+python scripts/analyze_results.py results/final/gpt-5-nano_run1   # the earlier first run's numbers
 ```
 
 New evaluation commands use `dmcall-eval` and the public method names:
@@ -458,7 +499,7 @@ src/dmfc/      compatibility imports for existing dmfc applications
 src/jbfc/      compatibility imports for existing jbfc applications
 src/jev_fc/    frozen experiment engine: repair loop, Jev client, BFCL data and scoring
 scripts/       table runs, run extension for Figure 2, analysis, paper build and checks
-paper/         manuscript and PDF
+paper/         current paper (anonymous PDF) and the earlier manuscript's LaTeX
 tests/         offline tests
 docs/          benchmark, gateway, literature and validation notes; README images
 ```

diff --git a/docs/assets/src/README.md b/docs/assets/src/README.md
@@ -1,9 +1,10 @@
 # README artwork sources
 
 The DM-Call hero is native HTML/SVG (`hero.html`). The six theme-specific charts use
-`data.json`, whose measurements preserve the original BFCL GPT runs. The current
-paper's six-row benchmark summary also includes Claude and exploratory API-Bank;
-those additional results are shown separately in the root README.
+`data.json`, which holds the current paper's numbers: BFCL category accuracy of the Table 1
+GPT runs (Direct and DM-Call with Jev, mean of three runs), Table 3 (archived `gpt-5-nano`
+runs replayed; time and cost are retained references, and Self-refine's cost is unknown)
+and Figure 2 (accuracy and cost by repair limit).
 
 The figure under "How it works" is Figure 1 of the paper. `dm-call-figure1.pdf` is the
 manuscript's figure file; its third panel title reads "DM-Call (Ours)", built from the
